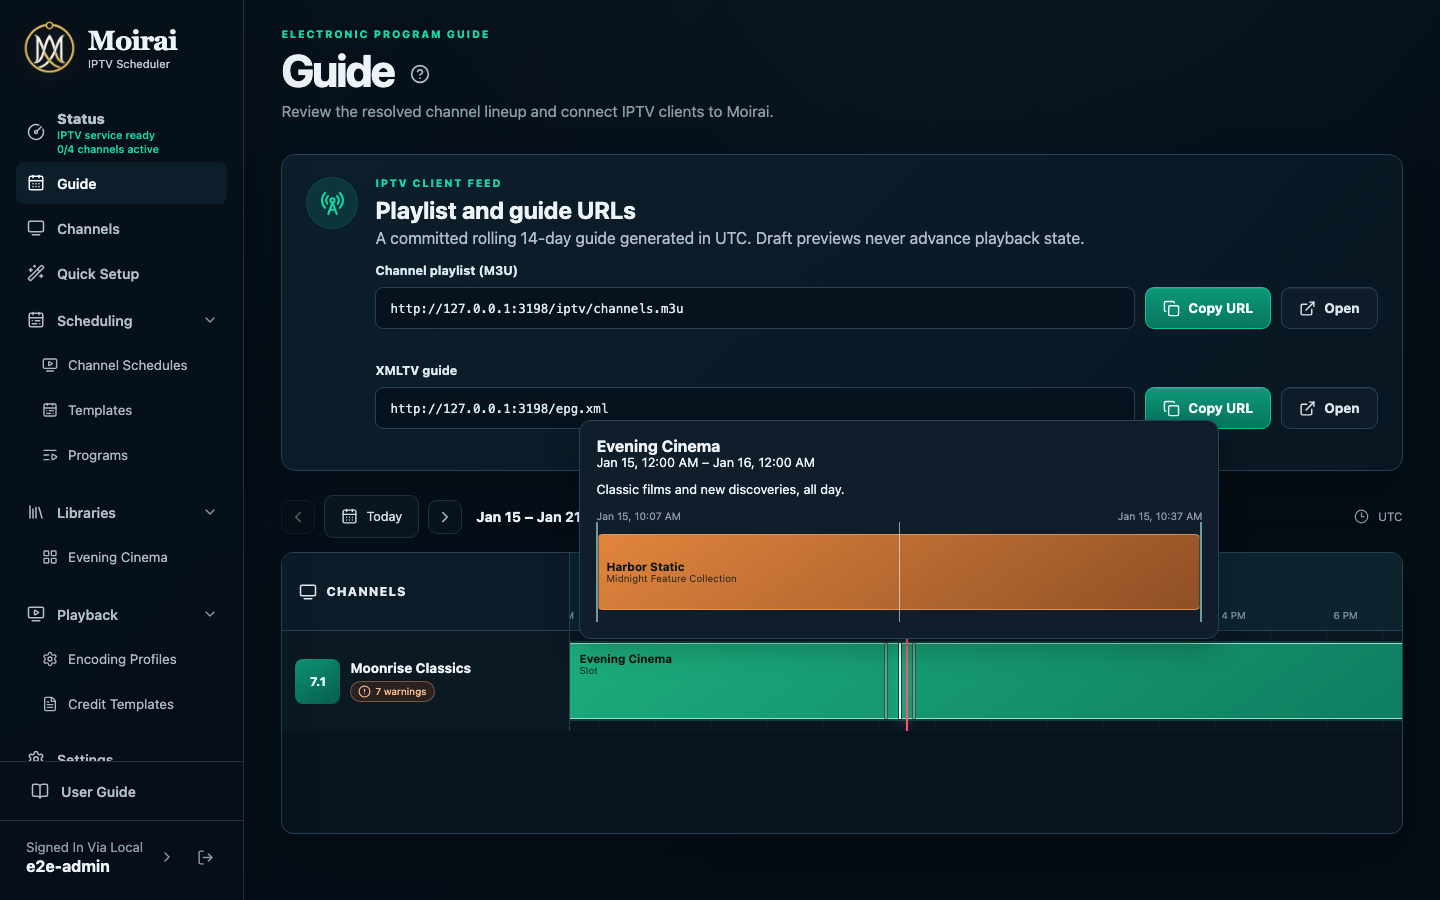
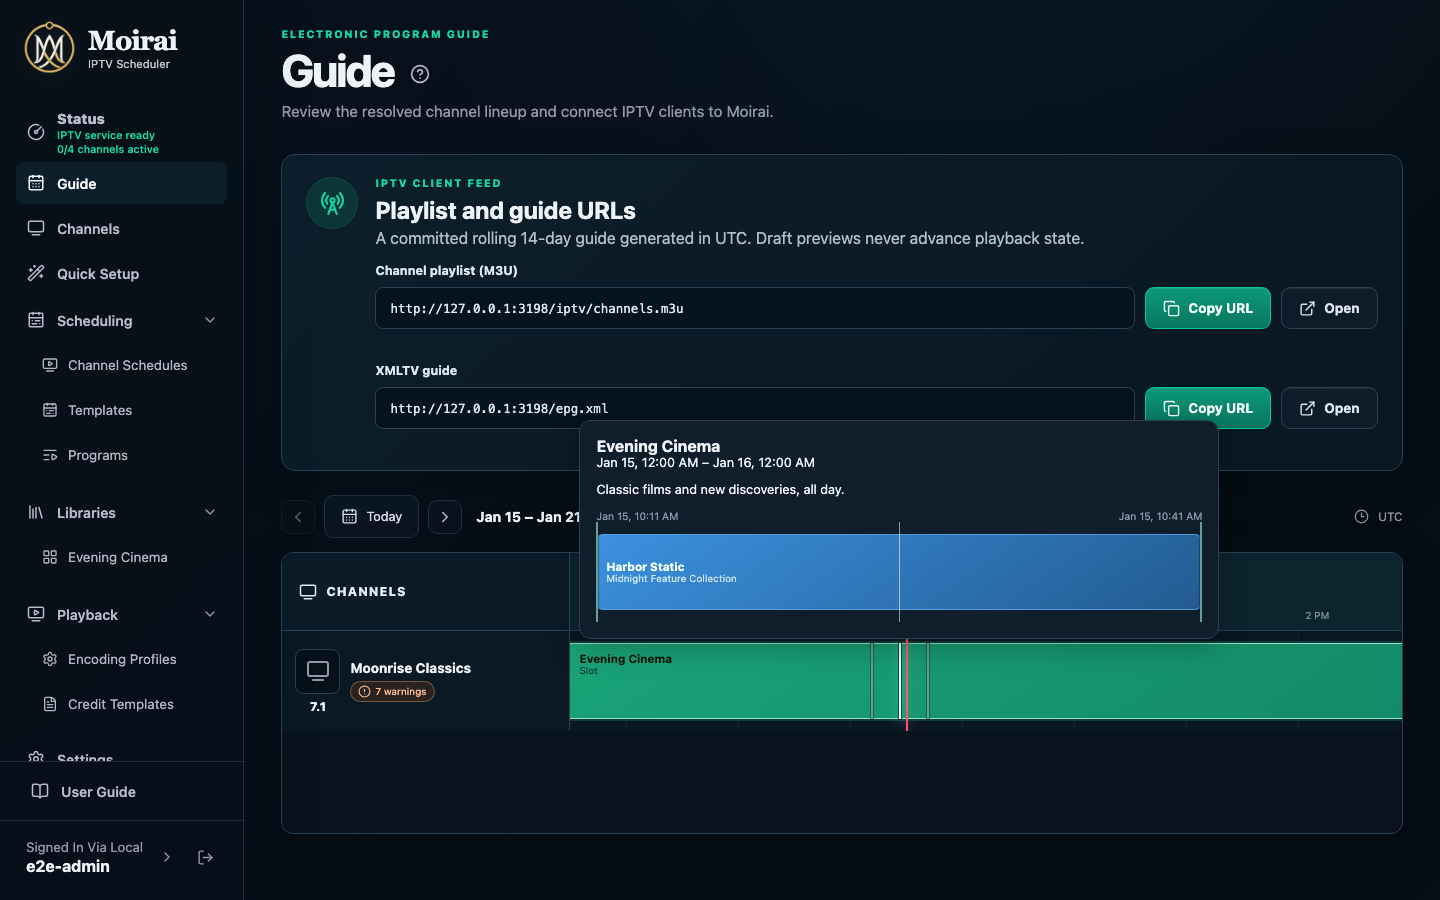
Channel/guide page refinements

Changed region(s): [[0.4062, 0.56, 0.8438, 0.6844], [0.5938, 0.7156, 0.6562, 0.8089], [0.1875, 0.7156, 0.25, 0.7778]]

diff --git a/tests/e2e/user-documentation.spec.ts b/tests/e2e/user-documentation.spec.ts
@@ -263,6 +263,30 @@ test('captures Channel Schedules and Guide', async ({ page, documentationServer 
 	await captureSection(page, channelEditor.locator('.layer-boundary-grid'), 'channel-schedule-boundaries.png');
 
 });
+test('starts each new channel with encoding and additional subtitles collapsed', async ({ page }) => {
+	await page.addInitScript(() => {
+		localStorage.setItem('moirai.ui.disclosure.channel-encoding.v1', 'true');
+		localStorage.setItem('moirai.ui.disclosure.channel-subtitles.v1', 'true');
+	});
+	await authenticateAdministrator(page);
+	await page.goto('/channels');
+	for (let attempt = 0; attempt < 2; attempt += 1) {
+		await page.getByRole('button', { name: 'New Channel', exact: true }).click();
+		const editor = page.getByRole('dialog', { name: 'Create Channel', exact: true });
+		await expect(editor.getByRole('combobox', { name: 'Audio and video settings', exact: true })).toBeEnabled();
+		const encoding = editor.getByRole('button', { name: /Video & audio settings/u });
+		const subtitles = editor.getByRole('button', { name: /Additional subtitle settings/u });
+		await expect(encoding).toHaveAttribute('aria-expanded', 'false');
+		await expect(subtitles).toHaveAttribute('aria-expanded', 'false');
+		await encoding.click();
+		await subtitles.click();
+		await expect(encoding).toHaveAttribute('aria-expanded', 'true');
+		await expect(subtitles).toHaveAttribute('aria-expanded', 'true');
+		await editor.getByRole('button', { name: 'Close channel editor', exact: true }).click();
+		await expect(editor).toBeHidden();
+	}
+});
+
 test('captures channel settings and operations', async ({ page, documentationServer }) => {
 	await seedSchedule(page, documentationServer.directory);
 	await page.goto('/channels');

diff --git a/apps/web/src/components/GuideTimeline.vue b/apps/web/src/components/GuideTimeline.vue
@@ -50,7 +50,8 @@ const selectedLoading = ref(false);
 const selectedError = ref('');
 const detailCache = new Map<string, GuideSegmentDetail>();
 let detailRequest = 0;
-const HOUR_WIDTH = 56;
+/** Pixels per elapsed hour shared by the Guide and Channels timelines. */
+const HOUR_WIDTH = 112;
 const daysGeometry = computed(() =>
 	guideDayGeometry(props.startDate, props.days, props.timeZone, HOUR_WIDTH));
 const timelineWidth = computed(() => {
@@ -238,13 +239,16 @@ onMounted(() => scrollToCurrentTime());
 					<template v-else>
 						<template v-for="channel in [row.channel]" :key="channel.id">
 							<article class="guide-channel-cell">
-								<img
-									v-if="channelLogoUrl(channel)"
-									class="guide-channel-logo"
-									:src="channelLogoUrl(channel) ?? undefined"
-									alt=""
-								/>
-								<span v-else class="channel-number">{{ channel.number }}</span>
+								<div class="guide-channel-identity">
+									<img
+										v-if="channelLogoUrl(channel)"
+										class="guide-channel-logo"
+										:src="channelLogoUrl(channel) ?? undefined"
+										alt=""
+									/>
+									<span v-else class="guide-channel-logo"><TvMinimal :size="24" aria-hidden="true" /></span>
+									<span class="channel-number">{{ channel.number }}</span>
+								</div>
 								<div class="guide-channel-copy">
 									<h2>{{ channel.name }}</h2>
 									<p v-if="showTechnicalDetails">

diff --git a/apps/web/src/components/ChannelEncodingSettings.vue b/apps/web/src/components/ChannelEncodingSettings.vue
@@ -1,18 +1,18 @@
 <script setup lang="ts">
-import { watch } from 'vue';
+import { ref, watch } from 'vue';
 import { useDisclosureState } from '../disclosure-state';
 import { ChevronDown, SlidersHorizontal } from '@lucide/vue';
 import type { ChannelCreate } from '@moirai/shared';
 import EncodingSettingsEditor from './EncodingSettingsEditor.vue';
 import FormDisclosure from './FormDisclosure.vue';
 
-const props = defineProps<{ profileId?: string | null | undefined; accelerationPredictionText?: string; accelerationDetail?: string | undefined }>();
+const props = defineProps<{ creating?: boolean; profileId?: string | null | undefined; accelerationPredictionText?: string; accelerationDetail?: string | undefined }>();
 const emit = defineEmits<{ 'validation-change': [invalid: boolean] }>();
 const audio = defineModel<ChannelCreate['audio']>('audio', { required: true });
 const video = defineModel<ChannelCreate['video']>('video', { required: true });
-const expanded = useDisclosureState('channel-encoding', !props.profileId);
+const expanded = props.creating ? ref(false) : useDisclosureState('channel-encoding', !props.profileId);
 watch(() => props.profileId, () => {
-	if (!props.profileId) {
+	if (!props.creating && !props.profileId) {
 		expanded.value = true;
 	}
 });

diff --git a/apps/web/src/views/ChannelsPage.vue b/apps/web/src/views/ChannelsPage.vue
@@ -1011,7 +1011,7 @@ useDraftProtection(() => showForm.value && channelFormDirty.value);
 					</div>
 
 					<EncodingProfileSelector v-model="form.encodingProfileId" v-model:audio="form.audio" v-model:video="form.video" :use-default="!editingId" @ready="encodingProfilesLoaded">
-						<ChannelEncodingSettings v-model:audio="form.audio" v-model:video="form.video" :profile-id="form.encodingProfileId" :acceleration-prediction-text="accelerationPredictionText" :acceleration-detail="accelerationPrediction?.detail" @validation-change="encodingInvalid = $event" />
+						<ChannelEncodingSettings v-model:audio="form.audio" v-model:video="form.video" :creating="!editingId" :profile-id="form.encodingProfileId" :acceleration-prediction-text="accelerationPredictionText" :acceleration-detail="accelerationPrediction?.detail" @validation-change="encodingInvalid = $event" />
 					</EncodingProfileSelector>
 					<AudioPreferencesEditor v-model="form.audioPreferences" />
 					<SubtitlePreferencesEditor v-model="form.subtitlePreferences" channel-layout :channel-id="editingId" :mode="form.subtitleMode">

diff --git a/apps/web/src/components/SubtitlePreferencesEditor.vue b/apps/web/src/components/SubtitlePreferencesEditor.vue
@@ -14,7 +14,7 @@ const templates = ref<CreditTemplate[]>([]);
 const loaded = ref(false);
 const error = ref('');
 const issues = ref<string[]>([]);
-const additionalOpen = useDisclosureState('channel-subtitles', true);
+const additionalOpen = props.channelLayout && !props.channelId ? ref(false) : useDisclosureState('channel-subtitles', true);
 const policy = computed({
 	get: () => model.value?.policy ?? '',
 	set: (value: string) => update('policy', value || undefined),

diff --git a/apps/web/src/styles/_channels.scss b/apps/web/src/styles/_channels.scss
@@ -70,9 +70,20 @@
 	min-width: 0;
 }
 
+.guide-channel-identity {
+	min-width: 0;
+	display: flex;
+	flex-direction: column;
+	align-items: center;
+	gap: 5px;
+}
+
 .guide-channel-logo {
 	width: 45px;
 	height: 45px;
+	display: grid;
+	place-items: center;
+	color: var(--muted);
 	padding: 3px;
 	object-fit: contain;
 	border: 1px solid #294052;

diff --git a/apps/web/src/styles/_guide.scss b/apps/web/src/styles/_guide.scss
@@ -1,12 +1,8 @@
 .channel-number {
-	width: 45px;
-	height: 45px;
-	display: grid;
-	place-items: center;
-	overflow: hidden;
-	border-radius: 8px;
+	max-width: 100%;
+	text-align: center;
+	overflow-wrap: anywhere;
 	color: #effffb;
-	background: linear-gradient(145deg, #0e9578, #075c4b);
 	font-size: 0.76rem;
 	font-weight: 750;
 }

diff --git a/apps/web/src/styles/_responsive.scss b/apps/web/src/styles/_responsive.scss
@@ -951,7 +951,7 @@
 		gap: 7px;
 	}
 
-	.guide-channel-cell .channel-number {
+	.guide-channel-cell .guide-channel-logo {
 		width: 40px;
 		height: 40px;
 	}

diff --git a/docs/technical-outline.md b/docs/technical-outline.md
@@ -719,6 +719,8 @@ Moirai serves the client-facing outputs directly:
 | Feed channel logos and artwork    | Images referenced by M3U/XMLTV |
 
 The Guide UI displays copyable channel-playlist and XMLTV URLs derived from `MOIRAI_PUBLIC_URL`.
+Guide and Channels share a timeline scale of 112 pixels per elapsed hour and show channel numbers
+centered below their logos, with a TV icon when no logo is set.
 
 Guide timeline and compact schedule-preview geometry use elapsed instants across each configured
 local date. Daylight-saving transitions therefore render 23-hour and 25-hour days at their actual
@@ -1000,6 +1002,8 @@ are not presented as loaded defaults or zero activity. Account, capacity, and sh
 reveal schema-based errors after blur and update them during correction. Encoding editors summarize
 touched errors beside Save, including when channel encoding controls are collapsed; replacing a draft
 clears its interaction history without changing the underlying validation contracts.
+New channel forms start video/audio and additional subtitle disclosures closed, independently of
+remembered disclosure preferences for existing channels.
 
 ### Resource navigation and direct usage
 

diff --git a/apps/docs/src/scheduling/channels.md b/apps/docs/src/scheduling/channels.md
@@ -11,6 +11,8 @@ To build a channel and its linked programming in one workflow, use [Quick Setup]
 
 A ![](/icons/tv-minimal.svg) Channel combines a viewer-facing number and name with playback settings. Open **![](/icons/tv-minimal.svg) Channels** to create or edit one and to review its resolved seven-day timeline.
 
+Each row shows the channel number centered below its logo, or a TV icon when no logo is set. The timeline uses the same zoom as the Guide page; scroll horizontally to see later programming.
+
 ![The channels page](/screenshots/channels.png)
 
 ## Open the Channel editor
